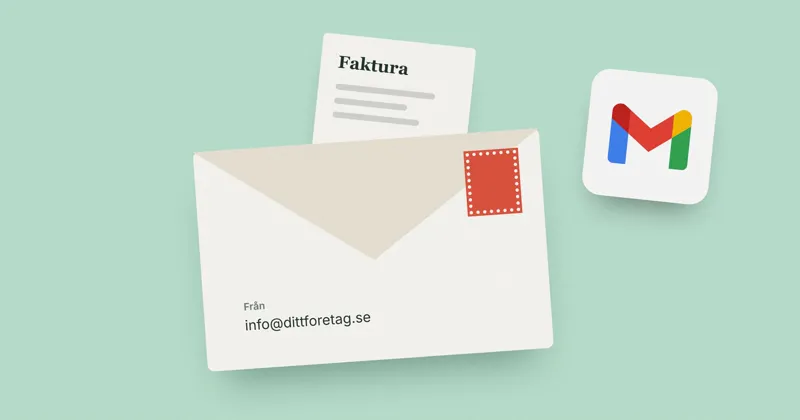
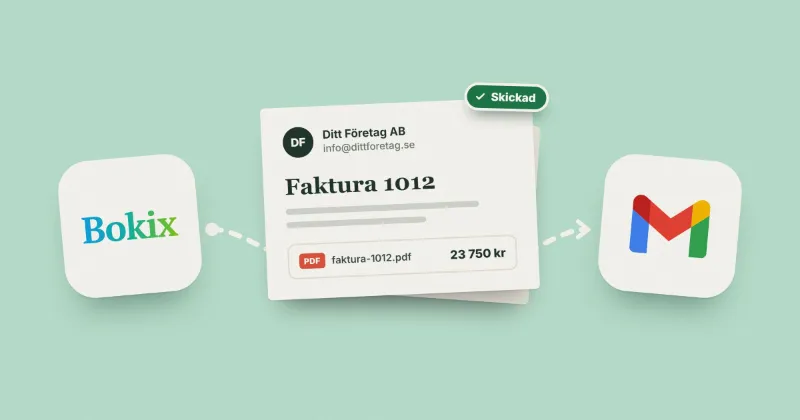
feat: nytt Gmail-omslag med Bokix, mejlet och Gmail

diff --git a/scripts/blog-art/nyhet-gmail.html b/scripts/blog-art/nyhet-gmail.html
@@ -1,22 +1,49 @@
 <!doctype html><html lang="sv"><head><meta charset="utf-8"><link rel="stylesheet" href="cover.css"><style>
+/* Tecknad stil som övriga omslag, med upplägget från första versionen:
+   Bokix till vänster, Gmail till höger och fakturamejlet på väg emellan. */
 .art { background: #bfe6d2; }
-.env { left: 300px; top: 210px; width: 520px; height: 330px; background: #fffdf8; border-radius: 10px; box-shadow: 0 40px 60px -30px rgba(20,60,40,0.45); transform: rotate(-4deg); }
-.env::before { content: ''; position: absolute; left: 0; right: 0; top: 0; height: 0; border-left: 260px solid transparent; border-right: 260px solid transparent; border-top: 180px solid #efe8da; }
-.env .to { position: absolute; left: 60px; bottom: 50px; font-size: 21px; color: #23372d; line-height: 1.5; }
-.env .to b { display: block; font-size: 15px; color: #6b7f74; font-weight: 600; }
-.env .stamp { position: absolute; right: 36px; top: 30px; width: 76px; height: 92px; background: #e2553f; border: 5px dotted #fffdf8; outline: 3px solid #e2553f; }
-.pdf { left: 470px; top: 60px; width: 230px; height: 290px; padding: 26px; transform: rotate(6deg); color: #23372d; }
-.pdf b { font-family: Georgia, serif; font-size: 26px; }
-.pdf .ln { margin-top: 18px; display: grid; gap: 12px; color: #23372d; }
-.pdf .tag { position: absolute; right: 18px; bottom: 18px; background: #e2553f; color: #fff; font-weight: 800; font-size: 14px; border-radius: 5px; padding: 3px 8px; }
-.trail { left: 840px; top: 200px; }
-.trail i { position: absolute; height: 6px; border-radius: 3px; background: rgba(255,255,255,0.75); }
+.tile { top: 236px; width: 206px; height: 206px; background: #fffdf8; border-radius: 46px; display: flex; align-items: center; justify-content: center; box-shadow: 0 2px 0 rgba(0,0,0,0.04), 0 34px 48px -26px rgba(20,60,40,0.5); }
+.tile.bokix { left: 92px; transform: rotate(-5deg); }
+.tile.bokix svg { width: 150px; height: auto; }
+.tile.gmail { left: 902px; transform: rotate(5deg); }
+.tile.gmail svg { width: 116px; height: auto; }
+
+.back { left: 418px; top: 176px; width: 384px; height: 268px; transform: rotate(4deg); background: #f3eee3; }
+.mail { left: 396px; top: 154px; width: 408px; padding: 30px 32px 30px; transform: rotate(-2.5deg); color: #23372d; }
+.mail .from { display: flex; align-items: center; gap: 14px; }
+.mail .av { width: 46px; height: 46px; border-radius: 50%; background: #23372d; color: #fffdf8; font-weight: 800; font-size: 17px; display: flex; align-items: center; justify-content: center; flex: none; }
+.mail .who { font-size: 17px; font-weight: 700; line-height: 1.25; }
+.mail .addr { font-size: 15px; color: #6b7f74; font-weight: 500; }
+.mail h4 { font-family: Georgia, serif; font-size: 34px; font-weight: 700; margin: 24px 0 14px; }
+.mail .ln { display: grid; gap: 11px; }
+.mail .att { display: flex; align-items: center; justify-content: space-between; margin-top: 24px; padding: 13px 15px; border: 2px solid #ece5d6; border-radius: 12px; }
+.mail .file { display: flex; align-items: center; gap: 10px; font-size: 15px; font-weight: 600; color: #3c5046; }
+.mail .tag { background: #e2553f; color: #fff; font-weight: 800; font-size: 12px; border-radius: 5px; padding: 4px 7px; letter-spacing: 0.03em; }
+.mail .amt { font-size: 18px; font-weight: 800; }
+.sent { right: -26px; top: -22px; display: flex; align-items: center; gap: 7px; font-size: 17px; font-weight: 800; color: #fff; background: #1f7a4a; border: 4px solid #fffdf8; padding: 7px 16px 7px 11px; border-radius: 999px; transform: rotate(4deg); box-shadow: 0 14px 22px -10px rgba(20,60,40,0.6); }
 </style></head><body><div class="art">
-<div class="abs pdf paper"><b>Faktura</b><div class="ln"><div class="line" style="width:150px"></div><div class="line" style="width:110px"></div><div class="line" style="width:130px"></div></div><span class="tag">PDF</span></div>
-<div class="abs env">
-  <div class="stamp"></div>
-  <div class="to"><b>Från</b>info@dittforetag.se</div>
+
+<!-- Streckad väg från Bokix till Gmail, bakom mejlet -->
+<svg class="abs" style="left:0;top:26px" width="1200" height="630" viewBox="0 0 1200 630">
+  <defs><marker id="arr" viewBox="0 0 12 12" refX="7" refY="6" markerWidth="4.2" markerHeight="4.2" orient="auto"><path d="M2 1.5 L8 6 L2 10.5" fill="none" stroke="#fffdf8" stroke-width="2.4" stroke-linecap="round" stroke-linejoin="round"/></marker></defs>
+  <circle cx="318" cy="318" r="10" fill="#fffdf8"/>
+  <path d="M318 318 C 380 318, 420 392, 600 392 S 820 318, 880 318" fill="none" stroke="#fffdf8" stroke-width="7.5" stroke-linecap="round" stroke-dasharray="14 15" marker-end="url(#arr)"/>
+</svg>
+
+<div class="abs tile bokix">
+  <svg viewBox="0 0 125 40"><defs><linearGradient id="wmgrad" x1="0%" y1="0%" x2="100%" y2="0%"><stop offset="0%" stop-color="#0ea5e9"/><stop offset="50%" stop-color="#14b8a6"/><stop offset="100%" stop-color="#84cc16"/></linearGradient></defs><path d="{{WORDMARK_PATH}}" fill="url(#wmgrad)"/></svg>
 </div>
-<div class="abs" style="left:880px;top:110px;width:190px;height:190px;transform:rotate(6deg);background:#fff;border-radius:28px;display:flex;align-items:center;justify-content:center;box-shadow:0 30px 44px -24px rgba(0,0,0,0.45)"><svg viewBox="52 42 88 66" style="width:120px;height:auto"><path fill="#4285f4" d="M58 108h14V74L52 59v43c0 3.32 2.69 6 6 6"/><path fill="#34a853" d="M120 108h14c3.32 0 6-2.69 6-6V59l-20 15"/><path fill="#fbbc04" d="M120 48v26l20-15v-8c0-7.42-8.47-11.65-14.4-7.2"/><path fill="#ea4335" d="M72 74V48l24 18 24-18v26L96 92"/><path fill="#c5221f" d="M52 51v8l20 15V48l-5.6-4.2c-5.94-4.45-14.4-.22-14.4 7.2"/></svg></div>
+
+<div class="abs back paper"></div>
+<div class="abs mail paper">
+  <div class="abs sent"><svg width="18" height="18" viewBox="0 0 24 24"><path d="M5 12.5l4.2 4.2L19 7" fill="none" stroke="#fff" stroke-width="3.4" stroke-linecap="round" stroke-linejoin="round"/></svg>Skickad</div>
+  <div class="from"><div class="av">DF</div><div><div class="who">Ditt Företag AB</div><div class="addr">info@dittforetag.se</div></div></div>
+  <h4>Faktura 1012</h4>
+  <div class="ln"><div class="line" style="width:290px"></div><div class="line" style="width:210px"></div></div>
+  <div class="att"><span class="file"><span class="tag">PDF</span>faktura-1012.pdf</span><span class="amt">23 750 kr</span></div>
+</div>
+
+<div class="abs tile gmail"><svg viewBox="52 42 88 66"><path fill="#4285f4" d="M58 108h14V74L52 59v43c0 3.32 2.69 6 6 6"/><path fill="#34a853" d="M120 108h14c3.32 0 6-2.69 6-6V59l-20 15"/><path fill="#fbbc04" d="M120 48v26l20-15v-8c0-7.42-8.47-11.65-14.4-7.2"/><path fill="#ea4335" d="M72 74V48l24 18 24-18v26L96 92"/><path fill="#c5221f" d="M52 51v8l20 15V48l-5.6-4.2c-5.94-4.45-14.4-.22-14.4 7.2"/></svg></div>
+
 <div class="grain"></div>
 </div></body></html>
